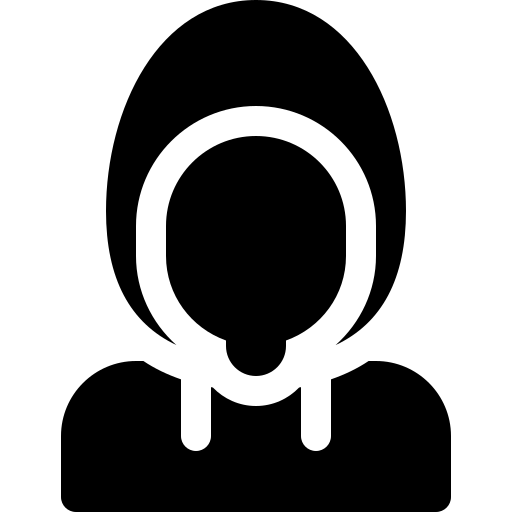
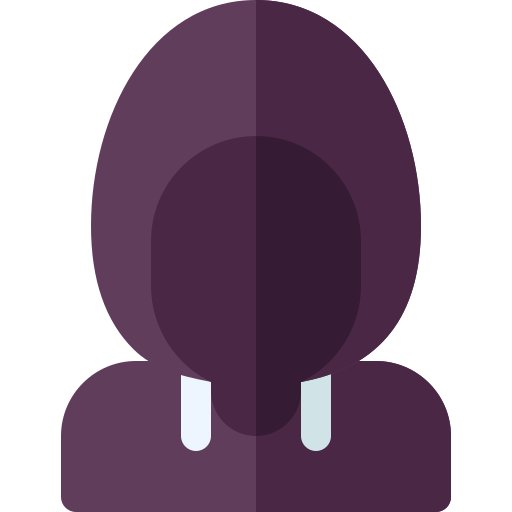
reparando

diff --git a/ReactJS-Code/my-react-app/src/App.css b/ReactJS-Code/my-react-app/src/App.css
@@ -1,5 +1,13 @@
-a {
+
+* {
   text-decoration: none;
+  padding: 0;
+  margin: 0;
+}
+li, ul, a{
+  text-decoration: none;
+  list-style: none;
+  margin-bottom: 0;
 }
 .bg-myRed{
   background-color: crimson;
@@ -45,7 +53,7 @@ a {
 }
 .counterBttn {
   border: none;
-  background: rgba(0, 0, 0, 0.863);
+  background: rgba(26, 1, 37, 0.863);
   color: white;
   border-radius: 5px;
   padding: 0 15px 0 15px ;
@@ -137,4 +145,56 @@ a {
   to {
     transform: rotate(360deg);
   }
+}
+
+
+
+/* Nuevo Todo */ 
+
+.navBar2__fondo {
+  background-color: rgb(15, 15, 15);
+  width: 100%;
+  height: 100%;
+}
+
+.navBar2 {
+  display: flex;
+  align-items: center;
+  justify-content: space-between;
+  margin-right: 20px;
+}
+
+.navBar2__logo {
+  width: 32px;
+}
+
+.navBar2__list {
+  display: flex;
+  gap: 10px;
+  justify-content: flex-start;
+  color: white;
+  padding-top: 20px;
+  align-items: center;
+}
+.navBar2__list li {
+  font-family: 'Josefin Sans', sans-serif;
+  margin: 0;
+  padding: 0;
+  font-weight: 200;
+  font-size: 1.2rem;
+  margin-top: 5px;
+}
+
+.navBar2__nombre {
+  font-family: 'Lobster', cursive;
+  font-size: 8rem;
+  color: white;
+}
+.navBar2__nombre--div {
+  padding-bottom: 20px;
+}
+
+.itemListContainer {
+  margin-top: 20px;
+  font-family: 'Josefin Sans', sans-serif;
 }

diff --git a/ReactJS-Code/my-react-app/src/components/itemCount2.jsx b/ReactJS-Code/my-react-app/src/components/itemCount2.jsx
@@ -1,0 +1,46 @@
+import {useState} from "react";
+import "../App.css";
+import * as React from 'react';
+
+const Counter = ({initial, stock}) => {
+
+    const [count, setCount] = useState (initial);
+    const [frase, setFrase] = useState ("");
+
+    const sumar = () => {
+        if (count === stock) {
+            setFrase('Limite de stock')
+        }
+        else {
+           setCount(count + 1);
+           setFrase("");
+        }
+    }
+    const restar = () => {
+        if (count === 0) {
+            setFrase('')
+        }
+        else{
+            setCount(count-1)
+            setFrase("")
+        }
+    }
+
+
+    return (
+
+        <div className= 'counter'>
+            <div className='counterNumero'>
+            <button className='counterBttn' onClick={sumar}>+</button>
+            <span>{count}</span>
+            <button className='counterBttn' onClick={restar}>-</button>
+            </div>
+            <button className='counterBttn'>Add Cart</button>
+            <div>
+            {frase}
+            </div>
+        </div>
+    )
+}
+
+export default Counter

diff --git a/ReactJS-Code/my-react-app/src/App.js b/ReactJS-Code/my-react-app/src/App.js
@@ -1,7 +1,9 @@
 
 import './App.css';
-import 'bootstrap/dist/css/bootstrap.css'
-import NavBar from './components/NavBar'
+import 'bootstrap/dist/css/bootstrap.css';
+import NavBar from './components/NavBar';
+import NavBar2 from './components/navBar2';
+import Counter from './components/itemCount2';
 import ItemListContainer from './components/itemListContainer'
 import ItemDetailContainer from './components/itemDetailContainer';
 import { BrowserRouter, Routes, Rout, Route} from 'react-router-dom';
@@ -10,9 +12,9 @@ function App() {
   return (
     <div className="App">
       <BrowserRouter>
-        <NavBar />
+        <NavBar2 />
         <Routes>
-          <Route path='/' element={<ItemListContainer greetings="| Overzise" />} />
+          <Route path='/' element={<ItemListContainer greetings="| New Arrivals" />} />
           <Route path='/item/:id' element={<ItemDetailContainer />} />
         </Routes>
       </BrowserRouter>

diff --git a/ReactJS-Code/my-react-app/src/components/CartWidget.Js b/ReactJS-Code/my-react-app/src/components/CartWidget.Js
@@ -1,12 +1,11 @@
 import { Component } from "react"
+import Cart from "./Assets/cart.png"
 
 class CartWidget extends Component {
     render(){
         return(
             <div className="carrito">
-                <svg xmlns="http://www.w3.org/2000/svg" width="16" height="16" fill="currentColor" className="bi bi-cart" viewBox="0 0 16 16">
-                <path d="M0 1.5A.5.5 0 0 1 .5 1H2a.5.5 0 0 1 .485.379L2.89 3H14.5a.5.5 0 0 1 .491.592l-1.5 8A.5.5 0 0 1 13 12H4a.5.5 0 0 1-.491-.408L2.01 3.607 1.61 2H.5a.5.5 0 0 1-.5-.5zM3.102 4l1.313 7h8.17l1.313-7H3.102zM5 12a2 2 0 1 0 0 4 2 2 0 0 0 0-4zm7 0a2 2 0 1 0 0 4 2 2 0 0 0 0-4zm-7 1a1 1 0 1 1 0 2 1 1 0 0 1 0-2zm7 0a1 1 0 1 1 0 2 1 1 0 0 1 0-2z"/>
-                </svg>
+                <img src={Cart} alt="carticon" />
                 <span className="carritoIcon">
                     4
                 </span>

diff --git a/ReactJS-Code/my-react-app/src/components/navBar2.jsx b/ReactJS-Code/my-react-app/src/components/navBar2.jsx
@@ -1,0 +1,23 @@
+import '../App.css';
+import Logo from './Assets/hoodie.png';
+import CartWidget from './CartWidget'
+
+const NavBar2 = () => {
+  return(
+    <div className="navBar2__fondo">
+        <div className='navBar2'>
+            <ul className='navBar2__list'>
+                    <img className='navBar2__logo' src={Logo} alt="Logo" />
+                    <li><a src="#">Hoodies</a></li>
+                    <li><a src="#">News</a></li>
+                    <li><a src="#">About Us</a></li>
+                    <li><a src="#">Contact</a></li>
+            </ul>
+                    <CartWidget />
+        </div>
+        <div className='navBar2__nombre--div'><span className='navBar2__nombre'>Prototype</span></div>
+    </div>
+  );
+}
+
+export default NavBar2 

diff --git a/ReactJS-Code/my-react-app/src/components/ItemDetail.js b/ReactJS-Code/my-react-app/src/components/ItemDetail.js
@@ -1,6 +1,8 @@
-import React from "react";
+
 import '../App.css';
-import Counter from './itemCount';
+import Counter from './itemCount2';
+import * as React from 'react';
+
 
 const ItemDetail = ({ product }) => {
     return (
@@ -12,7 +14,9 @@ const ItemDetail = ({ product }) => {
                 <h3>{product.name}</h3>
                 <h4>${product.price}</h4>
                 <h5>{product.info}</h5>
-                <Counter initial="1" stock="10" />
+                <div>
+                <Counter initial="0" stock="10" />
+                </div>
             </div>
         </div>
     )

diff --git a/ReactJS-Code/my-react-app/public/index.html b/ReactJS-Code/my-react-app/public/index.html
@@ -25,6 +25,9 @@
       Learn how to configure a non-root public URL by running `npm run build`.
     -->
     <title>React App</title>
+    <link rel="preconnect" href="https://fonts.googleapis.com">
+    <link rel="preconnect" href="https://fonts.gstatic.com" crossorigin>
+    <link href="https://fonts.googleapis.com/css2?family=Josefin+Sans:ital,wght@0,100;0,200;0,300;0,400;0,500;0,600;0,700;1,100;1,200;1,300;1,400;1,500;1,600;1,700&family=Lobster&display=swap" rel="stylesheet">
   </head>
   <body>
     <noscript>You need to enable JavaScript to run this app.</noscript>

diff --git a/ReactJS-Code/my-react-app/src/components/itemListContainer.js b/ReactJS-Code/my-react-app/src/components/itemListContainer.js
@@ -3,6 +3,7 @@ import { useEffect, useState } from "react";
 import { prod, traerProducto } from './productos';
 import ItemList from './itemList';
 import { useParams } from "react-router-dom";
+import "../App.css";
 
 const ItemListContainer = ({greetings}) => {
     const [items, setItems] = useState([]);
@@ -22,7 +23,7 @@ const ItemListContainer = ({greetings}) => {
      }, []);
 
        return (
-           <div>
+           <div className="itemListContainer">
                <h1> Hoodies {greetings} </h1>
                <ItemList items={items} />
            </div>

diff --git a/ReactJS-Code/my-react-app/src/components/productos.js b/ReactJS-Code/my-react-app/src/components/productos.js
@@ -28,7 +28,7 @@ export const traerProducto = () => {
     return new Promise((resolve, reject) => {
         setTimeout(() => {
             resolve(product);
-        }, 1000);
+        },);
     });
 };
 
